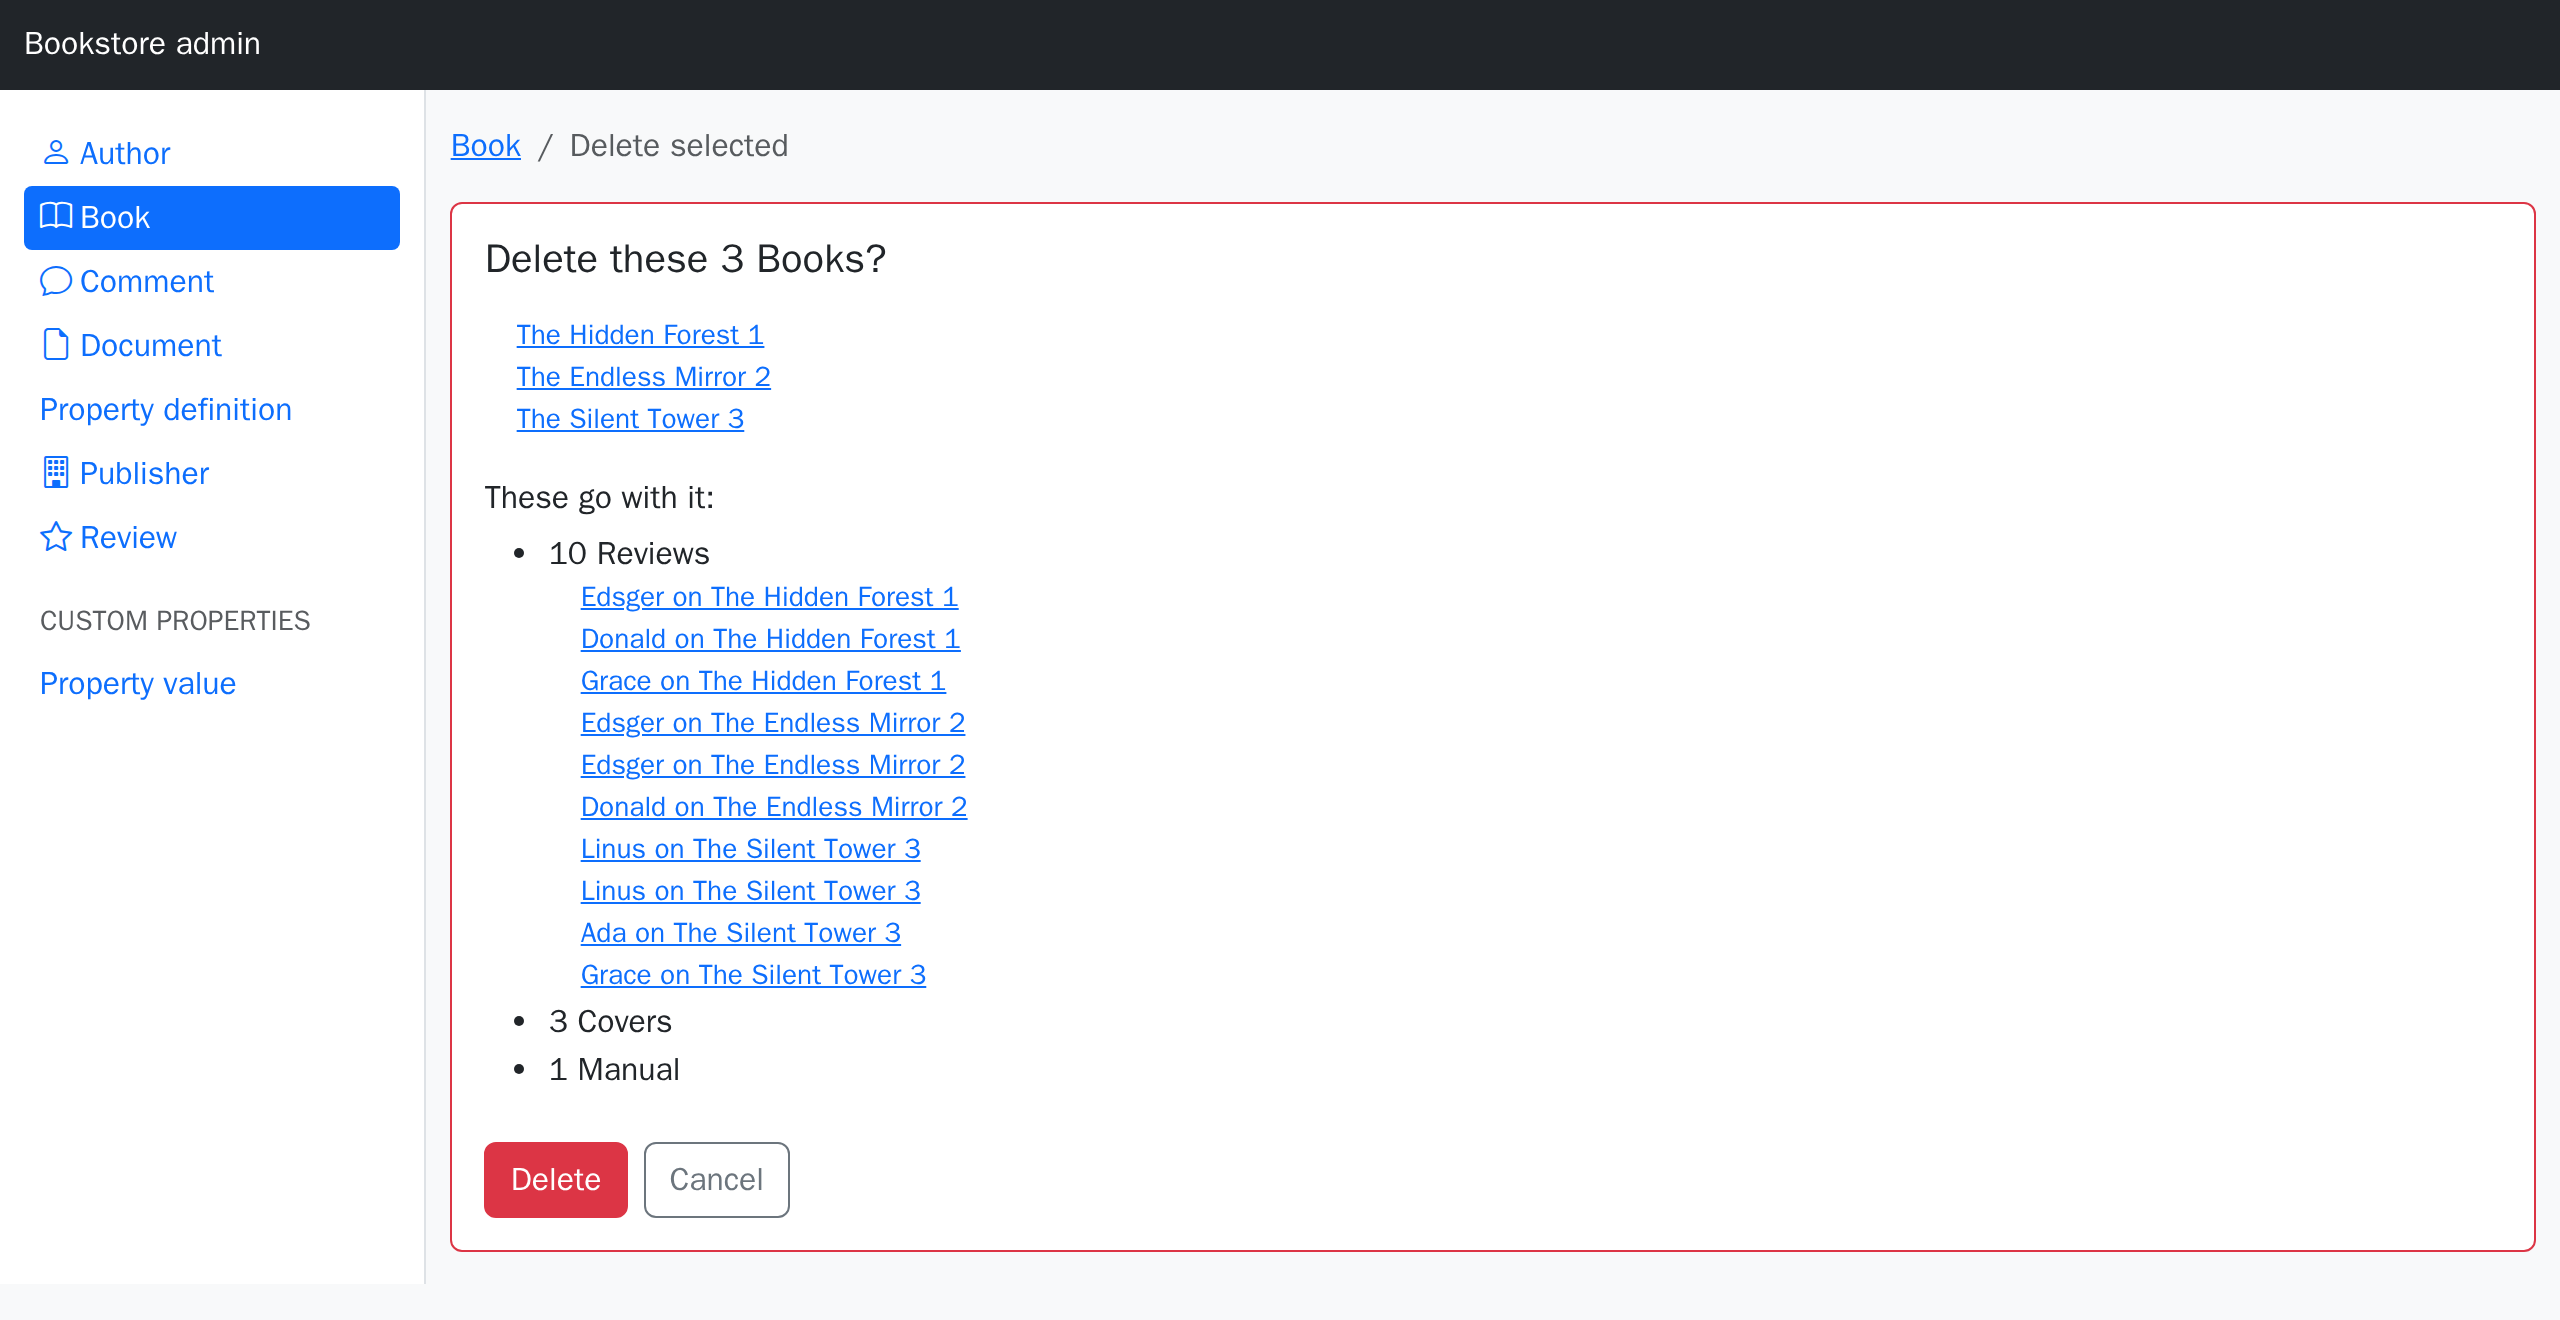
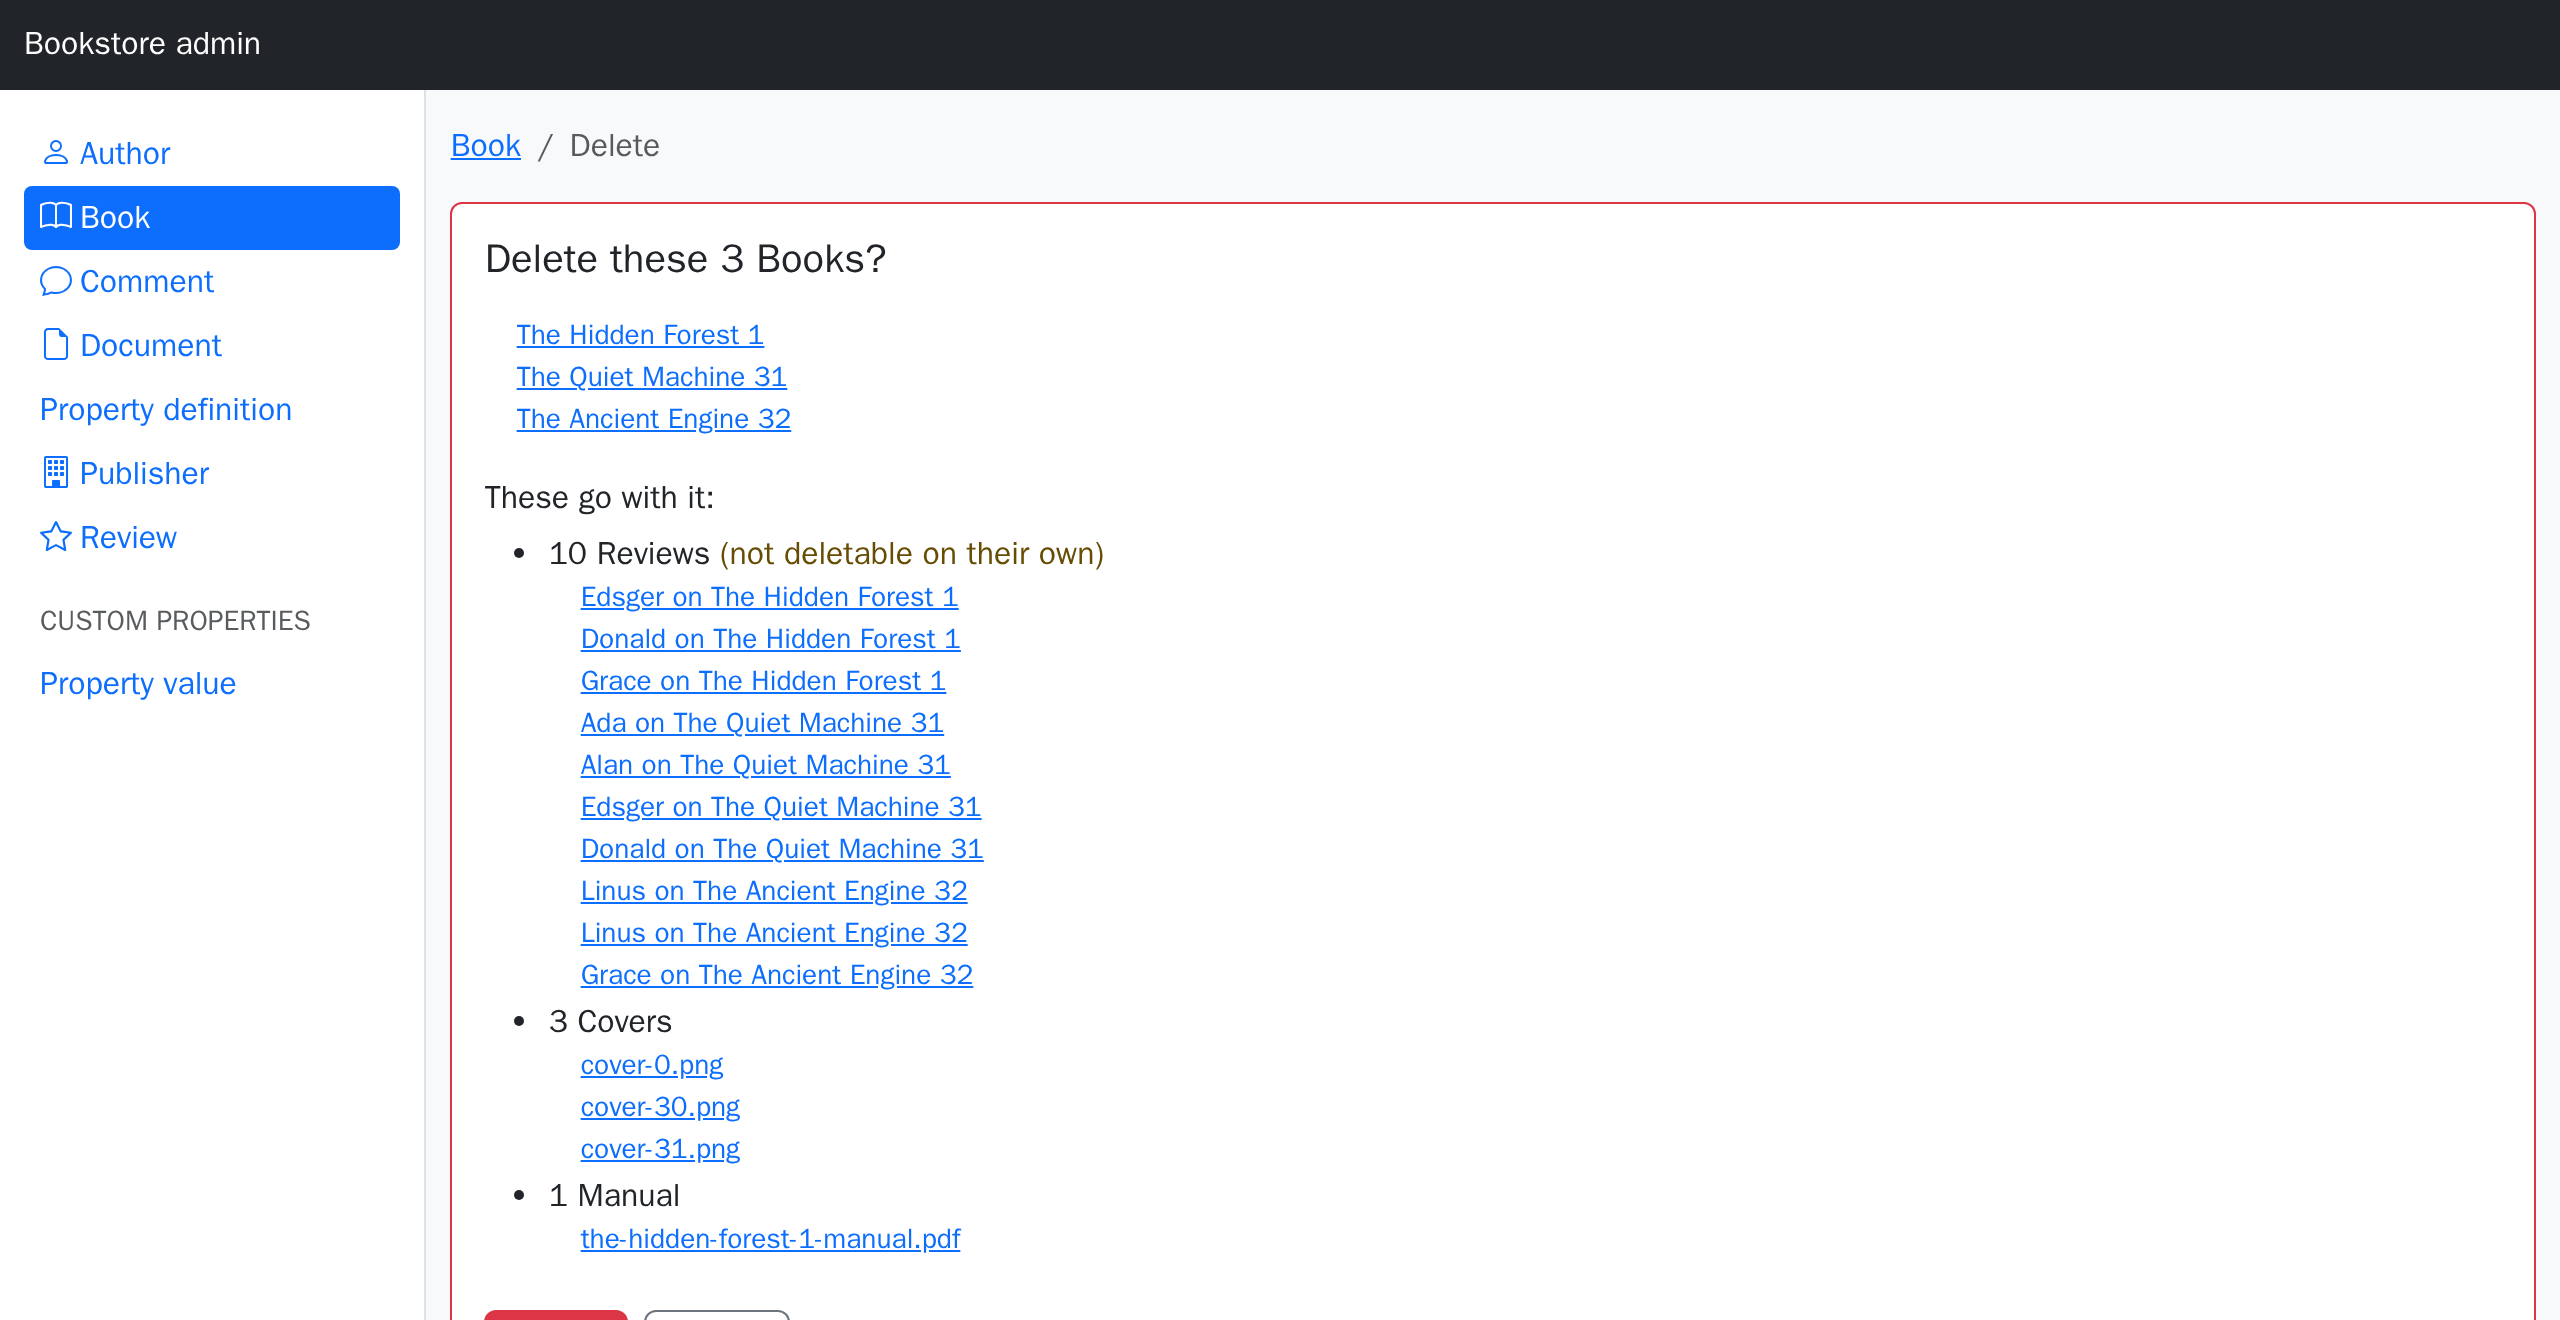
Admin: one delete page, for one record or a selection
The two confirmation pages said the same things in two templates. One record is
a selection of one: both routes now build @records and render `delete`, which
differs only in what it says about how many. delete_selected.html.erb is gone,
and the title/blocked/nothing_else strings carry a plural form instead of
duplicated `*_selected` keys.

diff --git a/app/controllers/crud_components/admin/resources_controller.rb b/app/controllers/crud_components/admin/resources_controller.rb
@@ -38,9 +38,17 @@ module CrudComponents
         end
       end
 
-      # The confirmation step: what goes with it, before anything goes.
+      # The confirmation step, for one record or for the ticked rows: which they
+      # are, and what goes with them.
       def delete
-        @dependents = Dependents.new(@record)
+        @records = [@record]
+        @dependents = Dependents::Selection.new(@records)
+      end
+
+      def delete_selected
+        @records = selected_records
+        @dependents = Dependents::Selection.new(@records)
+        render :delete
       end
 
       def destroy
@@ -48,13 +56,6 @@ module CrudComponents
         redirect_to index_path, notice: saved_notice(:destroyed)
       rescue ActiveRecord::InvalidForeignKey, ActiveRecord::DeleteRestrictionError => e
         redirect_to after_save_path(@record), alert: e.message
-      end
-
-      # The confirmation step for the ticked rows: which they are, and what goes
-      # with them.
-      def delete_selected
-        @records = selected_records
-        @dependents = Dependents::Selection.new(@records)
       end
 
       def destroy_selected

diff --git a/test/admin_engine_test.rb b/test/admin_engine_test.rb
@@ -360,6 +360,21 @@ class AdminEngineTest < ActionDispatch::IntegrationTest
     assert_select "button[formaction='/admin/authors/delete']", count: 0
   end
 
+  # One page for both: the member route is a selection of one.
+  test 'one record and a selection reach the same page' do
+    post '/toggle_admin'
+
+    get '/admin/books/hobbit/delete'
+
+    assert_select 'h1', text: /Delete this Book\?/
+    assert_select 'li a', text: /The Hobbit/
+
+    get '/admin/books/delete', params: { selected: %w[hobbit dispossessed] }
+
+    assert_select 'h1', text: /Delete these 2 Books\?/
+    assert_select 'li a', text: /The Hobbit/
+  end
+
   test 'the bulk confirmation names the ticked rows and what goes with them' do
     post '/toggle_admin'
     Review.create!(book: @hobbit, rating: 4, reviewer_name: 'Ada', body: 'A classic.')

diff --git a/CHANGELOG.md b/CHANGELOG.md
@@ -14,7 +14,7 @@ This project follows [semantic versioning](https://semver.org).
 - `app_path { |book| … }` in `crud_structure`, and the `crud_app_path(record)` helper: the host application's own page for a record, for when it is not the conventional route. Backs the admin's "Show in app" button.
 - `crud_admin_path(record, action = :show)` — the way back in, from an ordinary page to the mounted admin. Finds the mount point itself; nil when the admin isn't mounted or that action isn't enabled for the model.
 <<<<<<< HEAD
-- **The admin's delete goes through a confirmation page** that counts what the delete would take with it: associations declaring `dependent: :destroy`/`:delete_all` (with a marker when those cascade further), Active Storage attachments, what `:nullify` would orphan, and what `:restrict_with_*` blocks — the Delete button stays disabled while anything blocks. Each group **names** its records rather than only counting them: the first ten, each a link to its own page, then a link to the index holding the rest. **Delete selected** reaches the same page for the whole selection — the ticked records named, their dependents counted across all of them — instead of deleting behind a browser dialog. A group the ability would not let you delete one by one is marked as such — a cascade takes it either way. Delete buttons follow the ability too: what is refused is not offered. A browser dialog cannot say any of that.
+- **The admin's delete goes through a confirmation page** that counts what the delete would take with it: associations declaring `dependent: :destroy`/`:delete_all` (with a marker when those cascade further), Active Storage attachments, what `:nullify` would orphan, and what `:restrict_with_*` blocks — the Delete button stays disabled while anything blocks. Each group **names** its records rather than only counting them: the first ten, each a link to its own page, then a link to the index holding the rest. **Delete selected** reaches the same page for the whole selection — one record is a selection of one, so it is literally the same template and the same code path — with the ticked records named and their dependents counted across all of them, instead of deleting behind a browser dialog. A group the ability would not let you delete one by one is marked as such — a cascade takes it either way. Delete buttons follow the ability too: what is refused is not offered. A browser dialog cannot say any of that.
 =======
 - **The admin's delete goes through a confirmation page** that counts what the delete would take with it: associations declaring `dependent: :destroy`/`:delete_all` (with a marker when those cascade further), Active Storage attachments, what `:nullify` would orphan, and what `:restrict_with_*` blocks — the Delete button stays disabled while anything blocks. Each group **names** its records rather than only counting them: the first ten, each a link to its own page (an attachment names its file and links to it), then a link to the index holding the rest. A browser dialog cannot say any of that.
 >>>>>>> origin/feature/admin-delete-names

diff --git a/docs/admin.md b/docs/admin.md
@@ -154,10 +154,11 @@ A cascade can reach further than you: `dependent: :destroy` takes records the ab
 not let you delete one by one. That is not blocked — the database does it either way — but the
 group is **marked** on the page, so the delete is a decision rather than a surprise.
 
-Ticking rows in the index and using **Delete selected** reaches the same page for the whole
-selection (`/admin/books/delete`): the ticked records named, and what goes with them counted
-across all of them at once. Each record is still checked against the ability on its own — what
-the ability withholds is neither listed nor deleted.
+Ticking rows in the index and using **Delete selected** reaches **the same page**, for the
+whole selection (`/admin/books/delete` rather than `/admin/books/hobbit/delete`): one record
+is a selection of one. The ticked records are named, and what goes with them is counted
+across all of them at once. Each record is still checked against the ability on its own —
+what the ability withholds is neither listed nor deleted.
 
 ![The delete page for three ticked books: the three named, then the ten reviews and the attachments that go with them](screenshots/admin-delete-selected.png)
 
